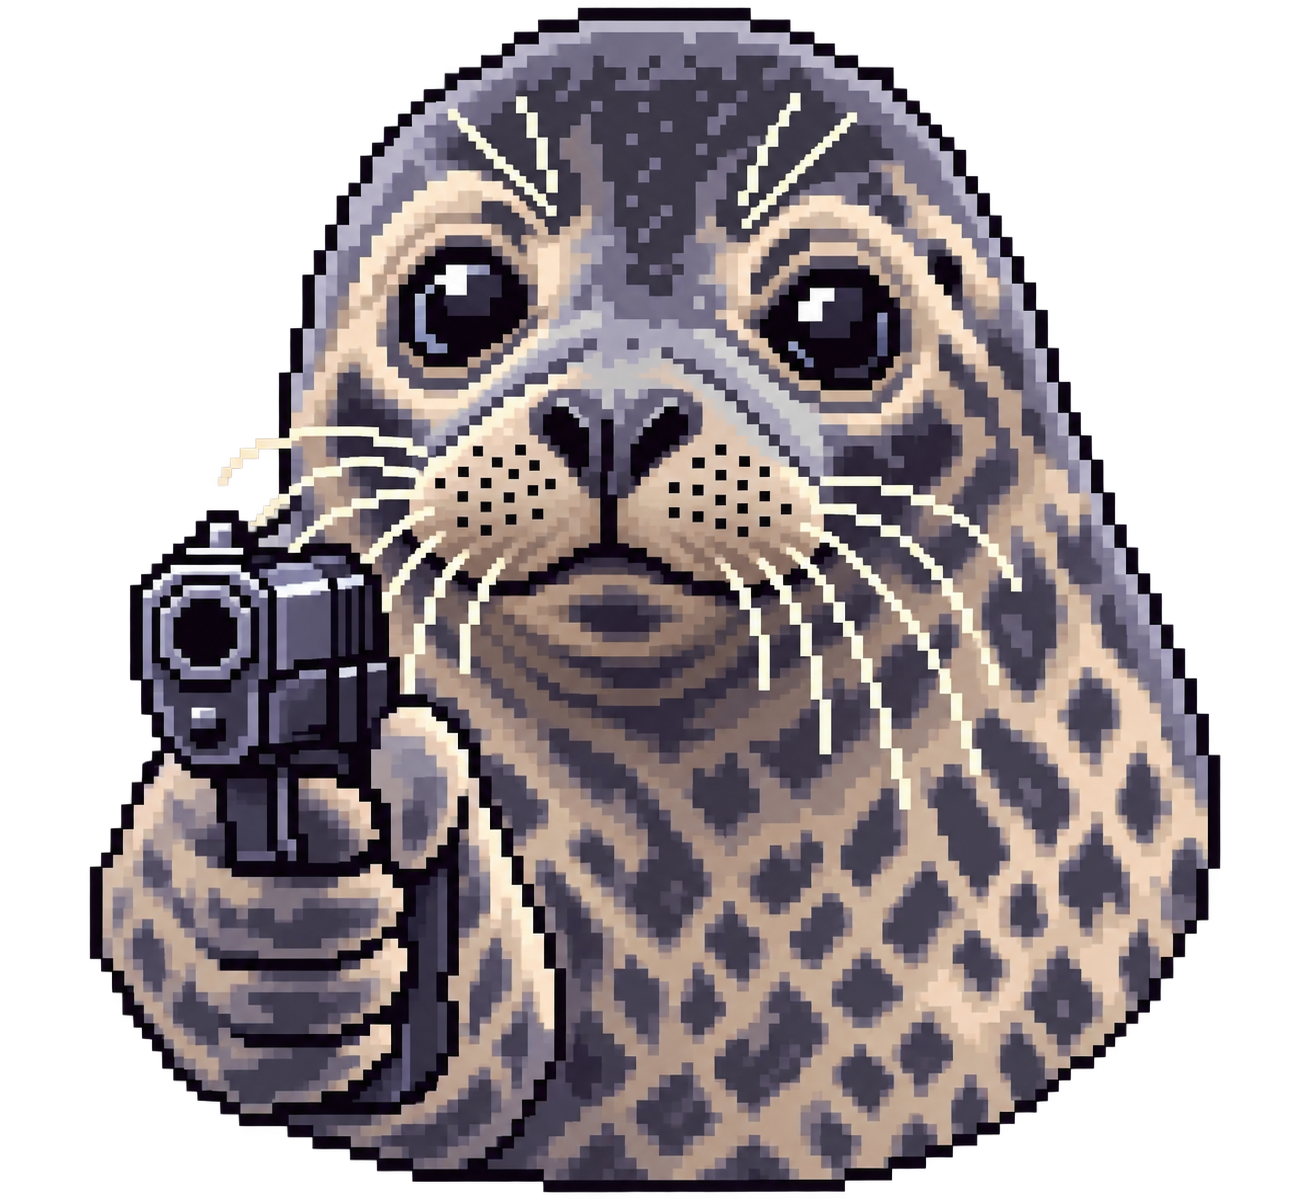
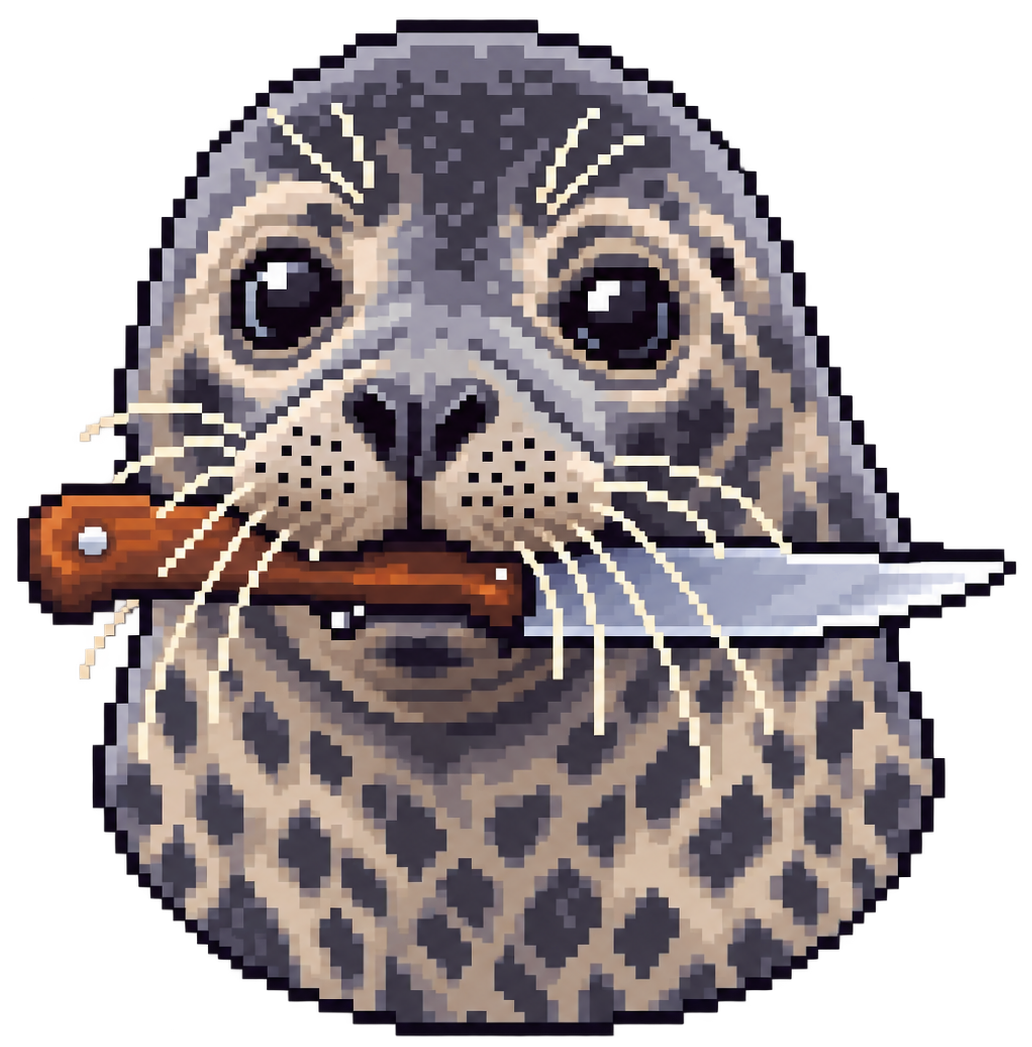
feat: add weapon images to ModeCard and update ModeStep title

diff --git a/src/components/wizard/ModeCard.tsx b/src/components/wizard/ModeCard.tsx
@@ -1,5 +1,9 @@
 import type { Mode } from '../../types/operative'
 
+import cuchillo from '../../assets/cuchillo.png'
+import pistola from '../../assets/pistola.png'
+
+
 export function ModeCard({ mode, selected, onSelect }: { mode: Mode; selected: boolean; onSelect: () => void }) {
   const isShoot = mode === 'shoot'
   return (
@@ -8,9 +12,12 @@ export function ModeCard({ mode, selected, onSelect }: { mode: Mode; selected: b
       onClick={onSelect}
       className={`flex flex-col items-center gap-2 p-5 px-4 border-2 rounded-xl bg-white cursor-pointer transition-all text-center ${selected ? 'border-[#6366f1] bg-[#eef2ff] shadow-[0_2px_12px_rgba(99,102,241,0.2)]' : 'border-[#e2e6f0] hover:border-[#c7d2fe] hover:bg-[#f8f9ff]'}`}
     >
-      <span className="text-[32px] leading-none">{isShoot ? '🎯' : '⚔'}</span>
+      <img
+        src={isShoot ? pistola : cuchillo}
+        alt={isShoot ? 'Pistol' : 'Knife'}
+        className="h-32 w-32"
+      />
       <span className="text-base font-bold text-[#0f172a]">{isShoot ? 'Shoot' : 'Fight'}</span>
-      <span className="text-xs text-[#64748b]">{isShoot ? 'Ranged attack — use BS, cover & obscured' : 'Melee attack — use WS, close combat'}</span>
     </button>
   )
 }

diff --git a/src/pages/wizard/ModeStep.tsx b/src/pages/wizard/ModeStep.tsx
@@ -9,7 +9,7 @@ export default function ModeStep() {
   const navigate = useNavigate()
 
   return (
-    <StepContainer title="Choose attack type" description="Will this be a shooting or fight attack? This affects which weapon profile is used.">
+    <StepContainer title="">
       <div className="grid grid-cols-2 gap-3 max-[640px]:grid-cols-1">
         <ModeCard mode="shoot" selected={mode === 'shoot'} onSelect={() => updateParams({ mode: 'shoot' })} />
         <ModeCard mode="fight" selected={mode === 'fight'} onSelect={() => updateParams({ mode: 'fight' })} />
